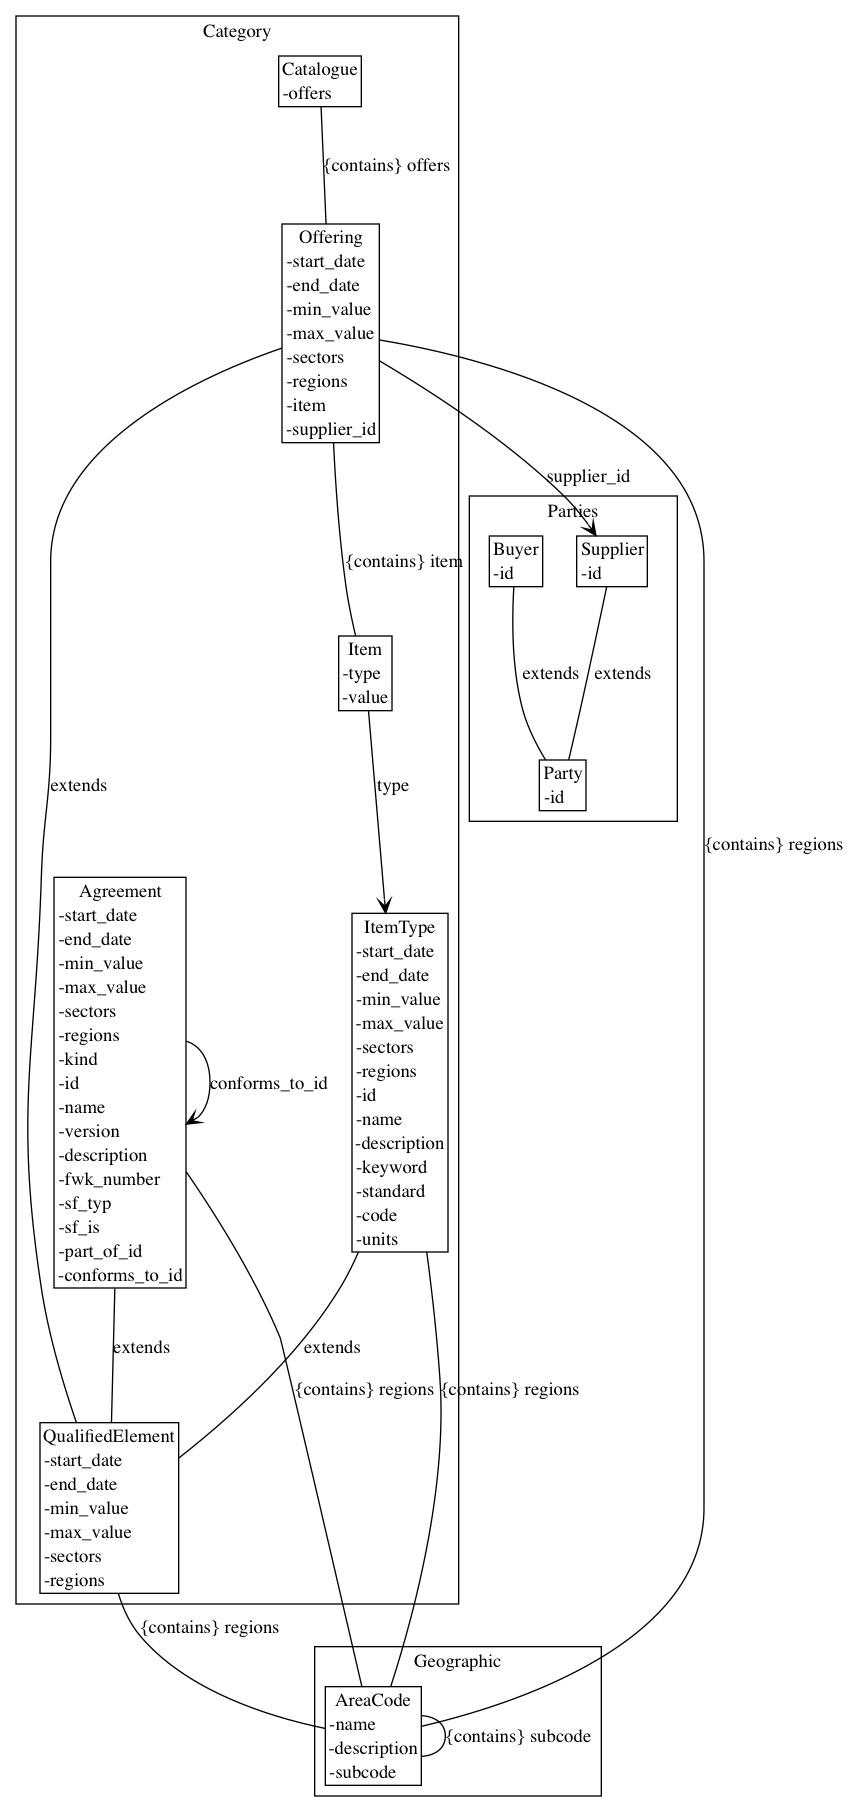
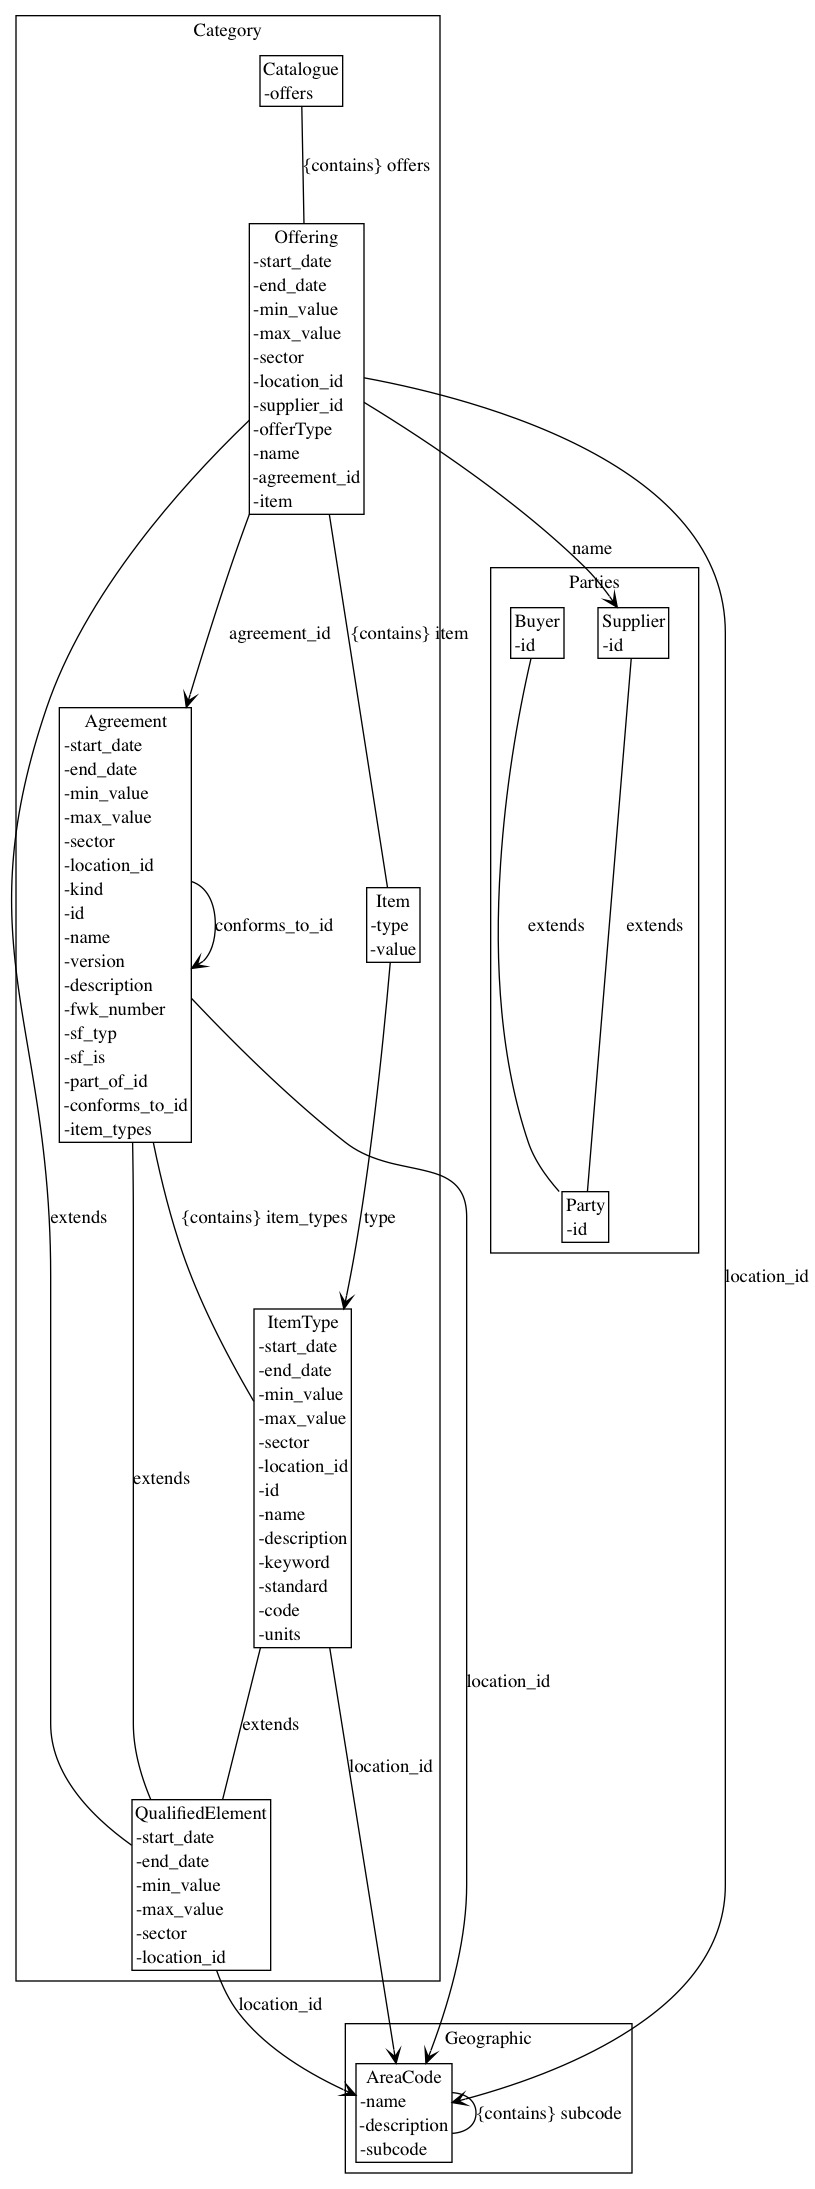
Change agreement and fm Add specialisations to Offering

diff --git a/model/agreement.rb b/model/agreement.rb
@@ -5,6 +5,8 @@ include DataModel
 
 domain :Category do
 
+  SECTOR = Selection(:ALL, :Education, :CentralGov, :WiderGov)
+
   datatype(:QualifiedElement,
            description: "Any datatype with standard qualifiers on it") {
     # constraints
@@ -12,13 +14,23 @@ domain :Category do
     attribute :end_date, Date
     attribute :min_value, Integer, "Minimum value of award, in pounds sterling"
     attribute :max_value, Integer, "Maximum value of award, in pounds sterling"
-    attribute :sectors, Selection(:ALL, :Education, :CentralGov, :WiderGov),
+    attribute :sector, SECTOR,
               "Pick list of applicable sectors. TO DO: is this a nested or more complex list?",
               ZERO_TO_MANY
-    attribute :regions, Geographic::AreaCode,
+    attribute :location_id, String, ZERO_TO_MANY,
               "Pick list of applicable regions. TO DO: is this a nested or more complex list?",
-              ZERO_TO_MANY
+              links: Geographic::AreaCode
+  }
 
+  datatype(:ItemType, extends: Category::QualifiedElement,
+           description: " Defines the items that can be offered in any given agreement ") {
+    attribute :id, String
+    attribute :name, String
+    attribute :description, String
+    attribute :keyword, String, ZERO_TO_MANY
+    attribute :standard, String, " which standard defines the item type, such as UBL2 .1 "
+    attribute :code, String, ZERO_TO_MANY, " codes within standard, such as UBL2 .1 "
+    attribute :units, Selection(:Area, :Currency), " define the units "
   }
 
   datatype(:Agreement, extends: Category::QualifiedElement,
@@ -39,36 +51,28 @@ domain :Category do
     # structure of agreement
     attribute :part_of_id, String, "Agreement this is part of, applicable only to Lots", links: :Agreement
     attribute :conforms_to_id, String, "Agreement this conforms to, such as a Contract conforming to a Framework", links: :Agreement
-
-  }
-
-  datatype(:ItemType, extends: Category::QualifiedElement,
-           description: " Defines the items valid in any given agreement ") {
-    attribute :id, String
-    attribute :name, String
-    attribute :description, String
-    attribute :keyword, String, ZERO_TO_MANY
-    attribute :standard, String, " which standard defines the item type, such as UBL2 .1 "
-    attribute :code, String, ZERO_TO_MANY, " codes within standard, such as UBL2 .1 "
-    attribute :units, Selection(:Area, :Price), " define the units "
+    attribute :item_types, :ItemType, ZERO_TO_MANY,
+              "describe the items that can be offered under the agreement"
   }
 
   datatype(:Item,
-           description: " Defines the items valid in any given agreement ") {
+           description: "Specifices the items that are being offered for an agreement") {
     attribute :type, String, "description of the item", links: :ItemType
     attribute :value, Object, "an object of the type matching type->units"
   }
 
   datatype(:Offering, extends: Category::QualifiedElement,
            description: " Supplier offering against an item, given a number of constraints ") {
-    attribute :item, :Item, "description of the item"
     attribute :supplier_id, String, links: Parties::Supplier
+    attribute :offerType, String, "subclass of the Offering, based on the Agreement"
+    attribute :name, String, links: Parties::Supplier
+    attribute :agreement_id, String, "The agreement this offering relates to", links: :Agreement
+    attribute :item, :Item, "description of the item"
   }
 
   datatype(:Catalogue,
            description: " Supplier offering against an item, given a number of constraints ") {
-    attribute :offers, :Offering, "description of the item", ZERO_TO_MANY
+    attribute :offers, :Offering, ZERO_TO_MANY, "description of the item"
   }
-
 
 end

diff --git a/model/fm.rb b/model/fm.rb
@@ -1,6 +1,13 @@
 require_relative 'agreement'
 
-Category.new :FM do
+domain :FM do
+  datatype(:FM_Offering, extends: Category::Offering,
+           description: " An offer for FM elements ") do
+    attribute :sc_cleared, String
+  end
+end
+
+Category.new :Frameworks do
 
   FM_ID = "FM"
   agreement do
@@ -8,71 +15,62 @@ Category.new :FM do
     id FM_ID
     fwk_number "RM8330"
     description "This agreement is for the provision of Facilities Management"
-    start_date date( 2018, 10, 01)
+    start_date date(2018, 10, 01)
   end
 
+  ENV_CLEANING = "#{FM_ID}.1a-C.3"
   agreement do
     kind :Lot
-    id "#{FM_ID}.1a-C.3"
-    name "environmental cleaning service"
+    id "FM lot 1"
+    name "low-to-mid value Facilities Management Lot"
+    part_of_id FM_ID
     min_value 0
     max_value 70000000
-
+    item_types do
+      id ENV_CLEANING
+      name "environmental cleaning service"
+      units :Currency
+      code "CCS-building-area-method"
+      keyword "cleaning"
+      keyword "washing"
+      keyword "janitor"
+    end
   end
-  # lot do
-  #   id "#{FM_ID}.1a"
-  #   fwk_id FM_ID
-  #   description "£0M-£7M" # TODO: need to put this constraint in the lot somehow
+  # # FM_Domain::FM_Offering.new("fm-offering") do
+  # offering do
+  #   supplier_id "XYZ corp"
+  #   name "XYZ's nifty school cleaning service"
+  #   agreement_id FM_ID
+  #   location_id UK.name
+  #   sector :Education
   #   item do
-  #     id "#{FM_ID}.1a-C.3"
-  #     name "environmental cleaning service"
-  #     detail do
-  #       id "price-per-area"
-  #       type :Currency
-  #       standard "CCS-building-area-method"
-  #       reference "per square metre"
-  #     end
-  #     detail do
-  #       id "sector"
-  #       type :Picklist
-  #       option "central"
-  #       option "school"
-  #       standard "CCS-FM-sectornames"
-  #     end
-  #   end
-  # end
-  #
-  # catalogue do
-  #   id "FM catalogue"
-  #   item do
-  #     param "#{FM_ID}.1a-C.3"
-  #     variable { param "price-per-area"; value "£50"}
-  #     variable { param "sector"; value "central"}
-  #   end
-  #   item do
-  #     param "#{FM_ID}.1a-C.3"
-  #     variable { param "price-per-area"; value "£45"}
-  #     variable { param "sector"; value "schools"}
-  #   end
-  #
-  #   offer do
-  #     supplier_id "XYZ corp"
-  #     # variable { param "location"; value "london"}
-  #
-  #     item_id "#{FM_ID}.1a-C.3"
-  #     variant do
-  #       variable { param "price-per-area"; value "£30"}
-  #       variable { param "sector"; value "central"}
-  #       variable { param "location"; value "london"}
-  #     end
-  #     variant do
-  #       variable { param "price-per-area"; value "£20"}
-  #       variable { param "sector"; value "schools"}
-  #     end
+  #     type ENV_CLEANING
+  #     value 3000
   #   end
   # end
 
 end
+
+FM.new :FM_catalogue do
+  fm_offering do
+    supplier_id "XYZ corp"
+    name "XYZ's nifty school cleaning service"
+    agreement_id FM_ID
+    location_id UK.name
+    sector :Education
+    sc_cleared "TRUE"
+    item do
+      type ENV_CLEANING
+      value 3000
+    end
+  end
+
+end
+
+
+
+
+
 
 
 

diff --git a/gen/doc/metamodel.md b/gen/doc/metamodel.md
@@ -7,8 +7,26 @@
 |end_date|Date|1||
 |min_value|Integer|1|Minimum value of award, in pounds sterling|
 |max_value|Integer|1|Maximum value of award, in pounds sterling|
-|sectors|Selection_ALL_Education_CentralGov_WiderGov|*|Pick list of applicable sectors. TO DO: is this a nested or more complex list?|
-|regions|Geographic::AreaCode|*|Pick list of applicable regions. TO DO: is this a nested or more complex list?|
+|sector|Selection_ALL_Education_CentralGov_WiderGov|*|Pick list of applicable sectors. TO DO: is this a nested or more complex list?|
+|location_id|String|*|Pick list of applicable regions. TO DO: is this a nested or more complex list?|
+## ItemType extends Category::QualifiedElement
+   Defines the items that can be offered in any given agreement 
+
+|attribute|type|multiplicity|description|
+|---------|----|------------|-----------|
+|start_date|Date|1||
+|end_date|Date|1||
+|min_value|Integer|1|Minimum value of award, in pounds sterling|
+|max_value|Integer|1|Maximum value of award, in pounds sterling|
+|sector|Selection_ALL_Education_CentralGov_WiderGov|*|Pick list of applicable sectors. TO DO: is this a nested or more complex list?|
+|location_id|String|*|Pick list of applicable regions. TO DO: is this a nested or more complex list?|
+|id|String|1||
+|name|String|1||
+|description|String|1||
+|keyword|String|*||
+|standard|String|1| which standard defines the item type, such as UBL2 .1 |
+|code|String|*| codes within standard, such as UBL2 .1 |
+|units|Selection_Area_Currency|1| define the units |
 ## Agreement extends Category::QualifiedElement
   General definition of Commercial Agreements
 
@@ -18,8 +36,8 @@
 |end_date|Date|1||
 |min_value|Integer|1|Minimum value of award, in pounds sterling|
 |max_value|Integer|1|Maximum value of award, in pounds sterling|
-|sectors|Selection_ALL_Education_CentralGov_WiderGov|*|Pick list of applicable sectors. TO DO: is this a nested or more complex list?|
-|regions|Geographic::AreaCode|*|Pick list of applicable regions. TO DO: is this a nested or more complex list?|
+|sector|Selection_ALL_Education_CentralGov_WiderGov|*|Pick list of applicable sectors. TO DO: is this a nested or more complex list?|
+|location_id|String|*|Pick list of applicable regions. TO DO: is this a nested or more complex list?|
 |kind|Selection_Framework_Lot_Contract|1|Kind of agreement, including :Framework, :Lot, :Contract|
 |id|String|1|uuid of agreeement|
 |name|String|1|uuid of agreeement|
@@ -30,26 +48,9 @@
 |sf_is|String|1|SalesForce row id|
 |part_of_id|String|1|Agreement this is part of, applicable only to Lots|
 |conforms_to_id|String|1|Agreement this conforms to, such as a Contract conforming to a Framework|
-## ItemType extends Category::QualifiedElement
-   Defines the items valid in any given agreement 
-
-|attribute|type|multiplicity|description|
-|---------|----|------------|-----------|
-|start_date|Date|1||
-|end_date|Date|1||
-|min_value|Integer|1|Minimum value of award, in pounds sterling|
-|max_value|Integer|1|Maximum value of award, in pounds sterling|
-|sectors|Selection_ALL_Education_CentralGov_WiderGov|*|Pick list of applicable sectors. TO DO: is this a nested or more complex list?|
-|regions|Geographic::AreaCode|*|Pick list of applicable regions. TO DO: is this a nested or more complex list?|
-|id|String|1||
-|name|String|1||
-|description|String|1||
-|keyword|String|*||
-|standard|String|1| which standard defines the item type, such as UBL2 .1 |
-|code|String|*| codes within standard, such as UBL2 .1 |
-|units|Selection_Area_Price|1| define the units |
+|item_types|Category::ItemType|*|describe the items that can be offered under the agreement|
 ## Item
-   Defines the items valid in any given agreement 
+  Specifices the items that are being offered for an agreement
 
 |attribute|type|multiplicity|description|
 |---------|----|------------|-----------|
@@ -64,10 +65,13 @@
 |end_date|Date|1||
 |min_value|Integer|1|Minimum value of award, in pounds sterling|
 |max_value|Integer|1|Maximum value of award, in pounds sterling|
-|sectors|Selection_ALL_Education_CentralGov_WiderGov|*|Pick list of applicable sectors. TO DO: is this a nested or more complex list?|
-|regions|Geographic::AreaCode|*|Pick list of applicable regions. TO DO: is this a nested or more complex list?|
-|item|Category::Item|1|description of the item|
+|sector|Selection_ALL_Education_CentralGov_WiderGov|*|Pick list of applicable sectors. TO DO: is this a nested or more complex list?|
+|location_id|String|*|Pick list of applicable regions. TO DO: is this a nested or more complex list?|
 |supplier_id|String|1||
+|offerType|String|1|subclass of the Offering, based on the Agreement|
+|name|String|1||
+|agreement_id|String|1|The agreement this offering relates to|
+|item|Category::Item|1|description of the item|
 ## Catalogue
    Supplier offering against an item, given a number of constraints 
 
@@ -100,3 +104,20 @@
 |name|String|1||
 |description|String|1||
 |subcode|Geographic::AreaCode|*|UUID or Salesforce ID?|
+## FM_Offering extends Category::Offering
+   An offer for FM elements 
+
+|attribute|type|multiplicity|description|
+|---------|----|------------|-----------|
+|start_date|Date|1||
+|end_date|Date|1||
+|min_value|Integer|1|Minimum value of award, in pounds sterling|
+|max_value|Integer|1|Maximum value of award, in pounds sterling|
+|sector|Selection_ALL_Education_CentralGov_WiderGov|*|Pick list of applicable sectors. TO DO: is this a nested or more complex list?|
+|location_id|String|*|Pick list of applicable regions. TO DO: is this a nested or more complex list?|
+|supplier_id|String|1||
+|offerType|String|1|subclass of the Offering, based on the Agreement|
+|name|String|1||
+|agreement_id|String|1|The agreement this offering relates to|
+|item|Category::Item|1|description of the item|
+|sc_cleared|String|1||

diff --git a/gen/doc/frameworks.md b/gen/doc/frameworks.md
@@ -4,9 +4,28 @@
    - fwk_number RM8330
    - description This agreement is for the provision of Facilities Management
    - start_date 2018-10-01
-### environmental cleaning service FM.1a-C.3 
+### low-to-mid value Facilities Management Lot FM lot 1 
    - kind Lot
-   - id FM.1a-C.3
-   - name environmental cleaning service
+   - id FM lot 1
+   - name low-to-mid value Facilities Management Lot
+   - part_of_id FM
    - min_value 0
    - max_value 70000000
+#### environmental cleaning service FM.1a-C.3 
+     - id FM.1a-C.3
+     - name environmental cleaning service
+     - units Currency
+     - code.1 CCS-building-area-method
+     - keyword.1 cleaning
+     - keyword.2 washing
+     - keyword.3 janitor
+### XYZ's nifty school cleaning service  
+   - supplier_id XYZ corp
+   - name XYZ's nifty school cleaning service
+   - agreement_id FM
+   - location_id.1 UK
+   - sector.1 Education
+   - sc_cleared TRUE
+#### item  
+     - type FM.1a-C.3
+     - value 3000
